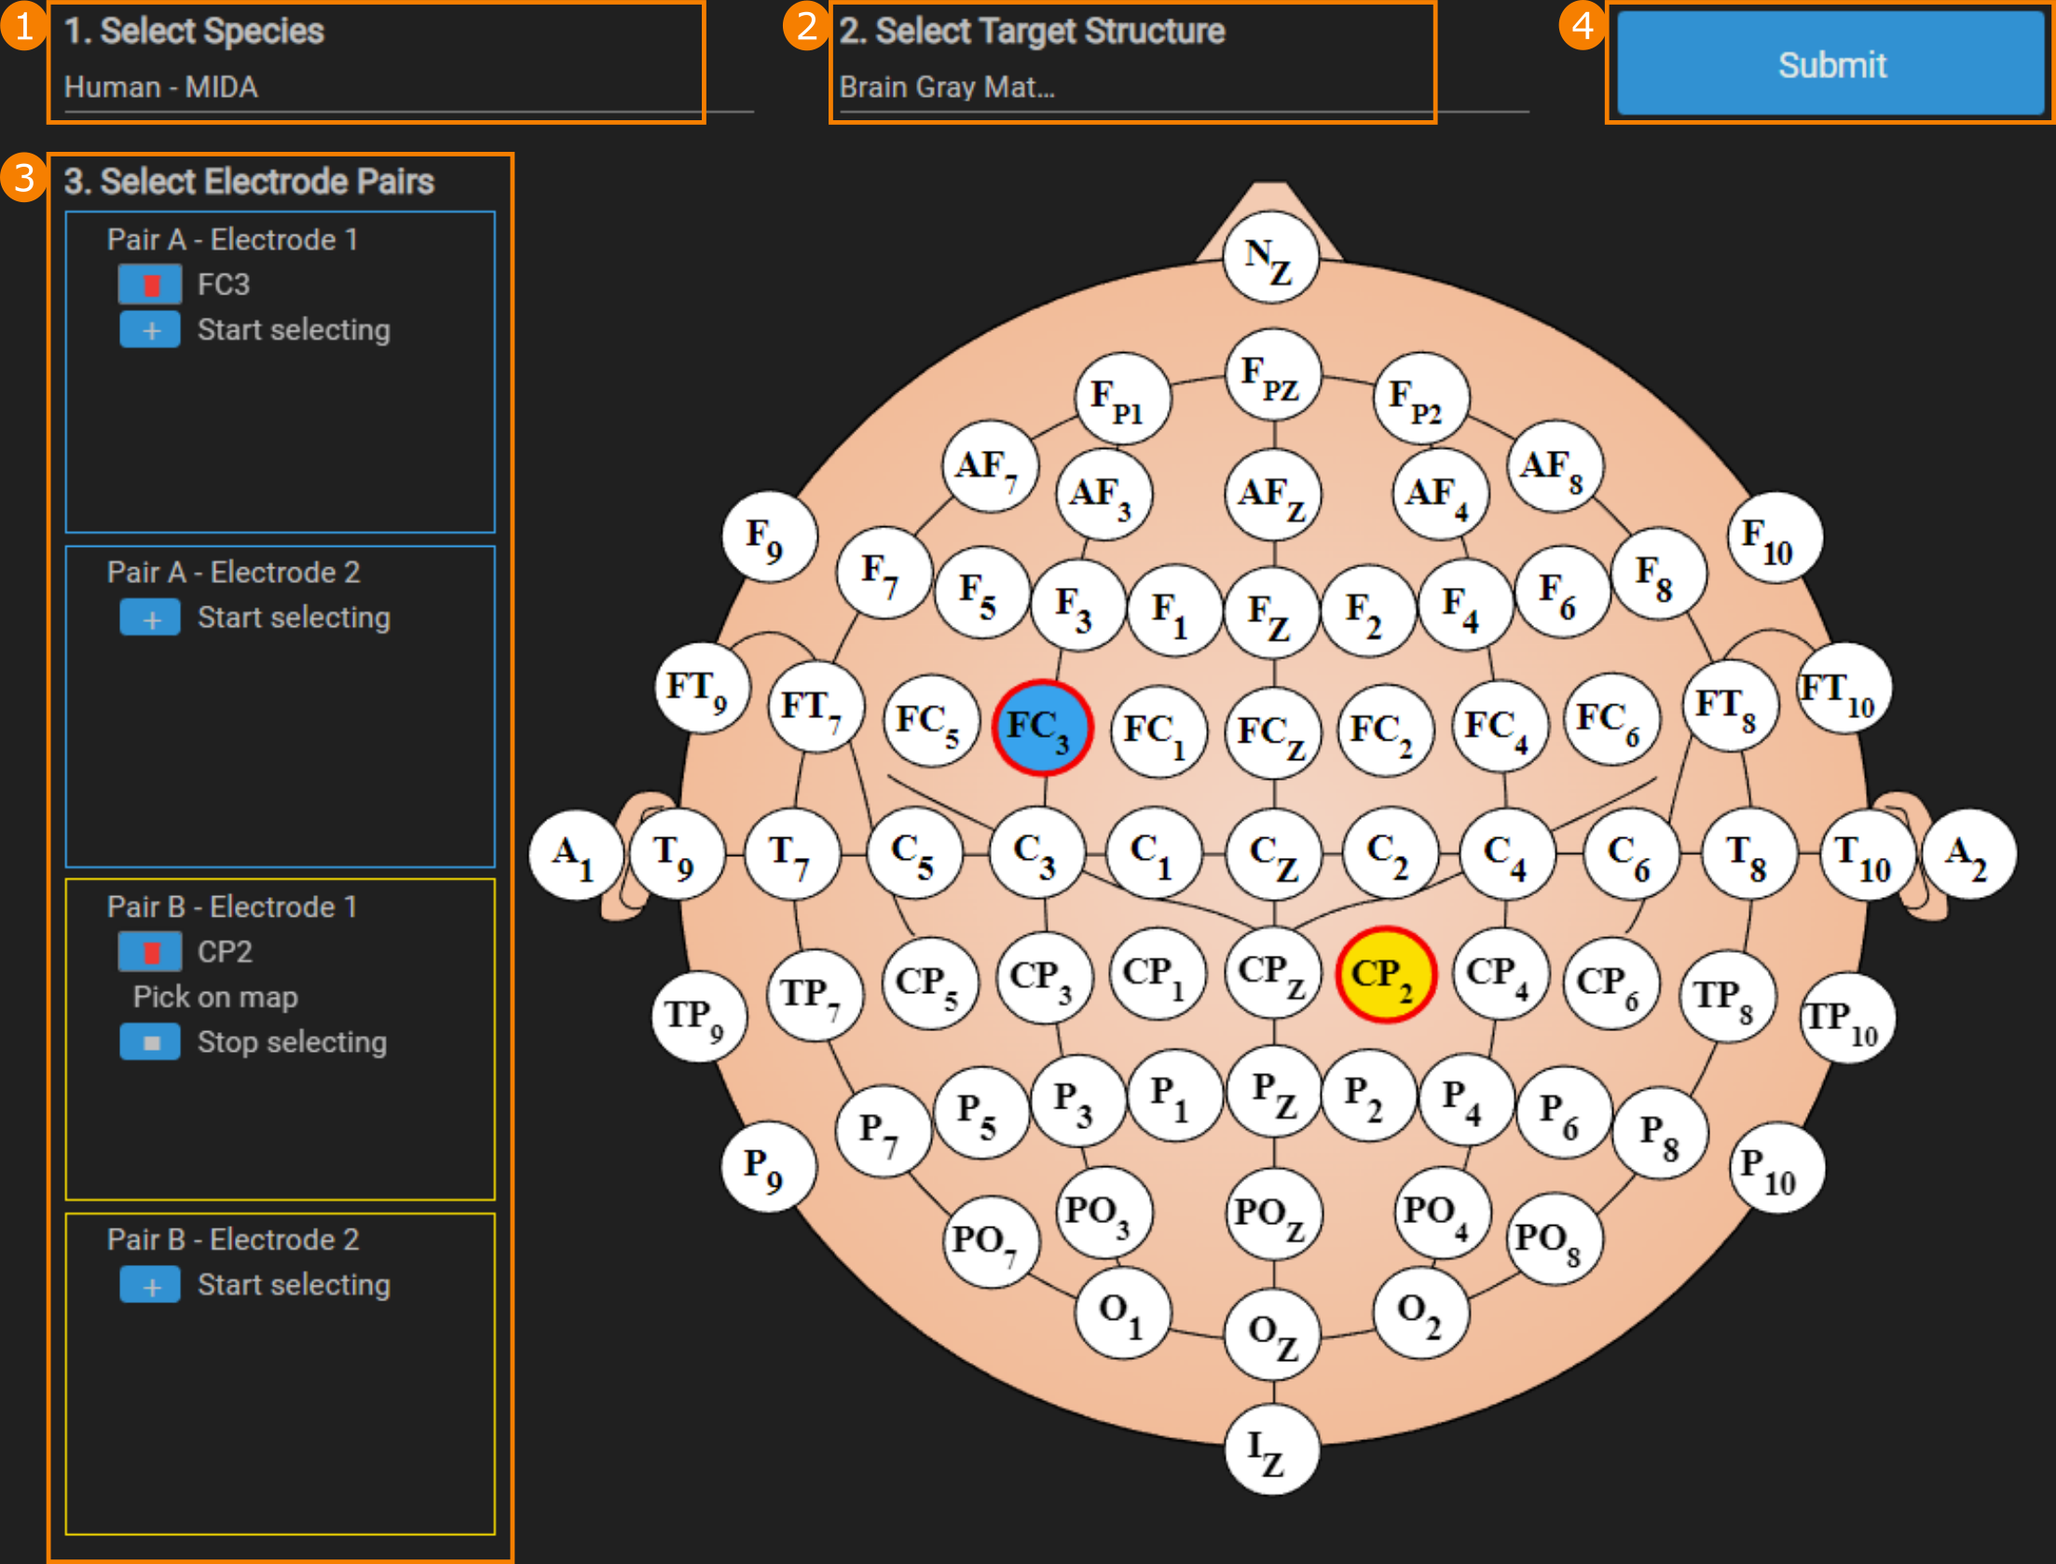
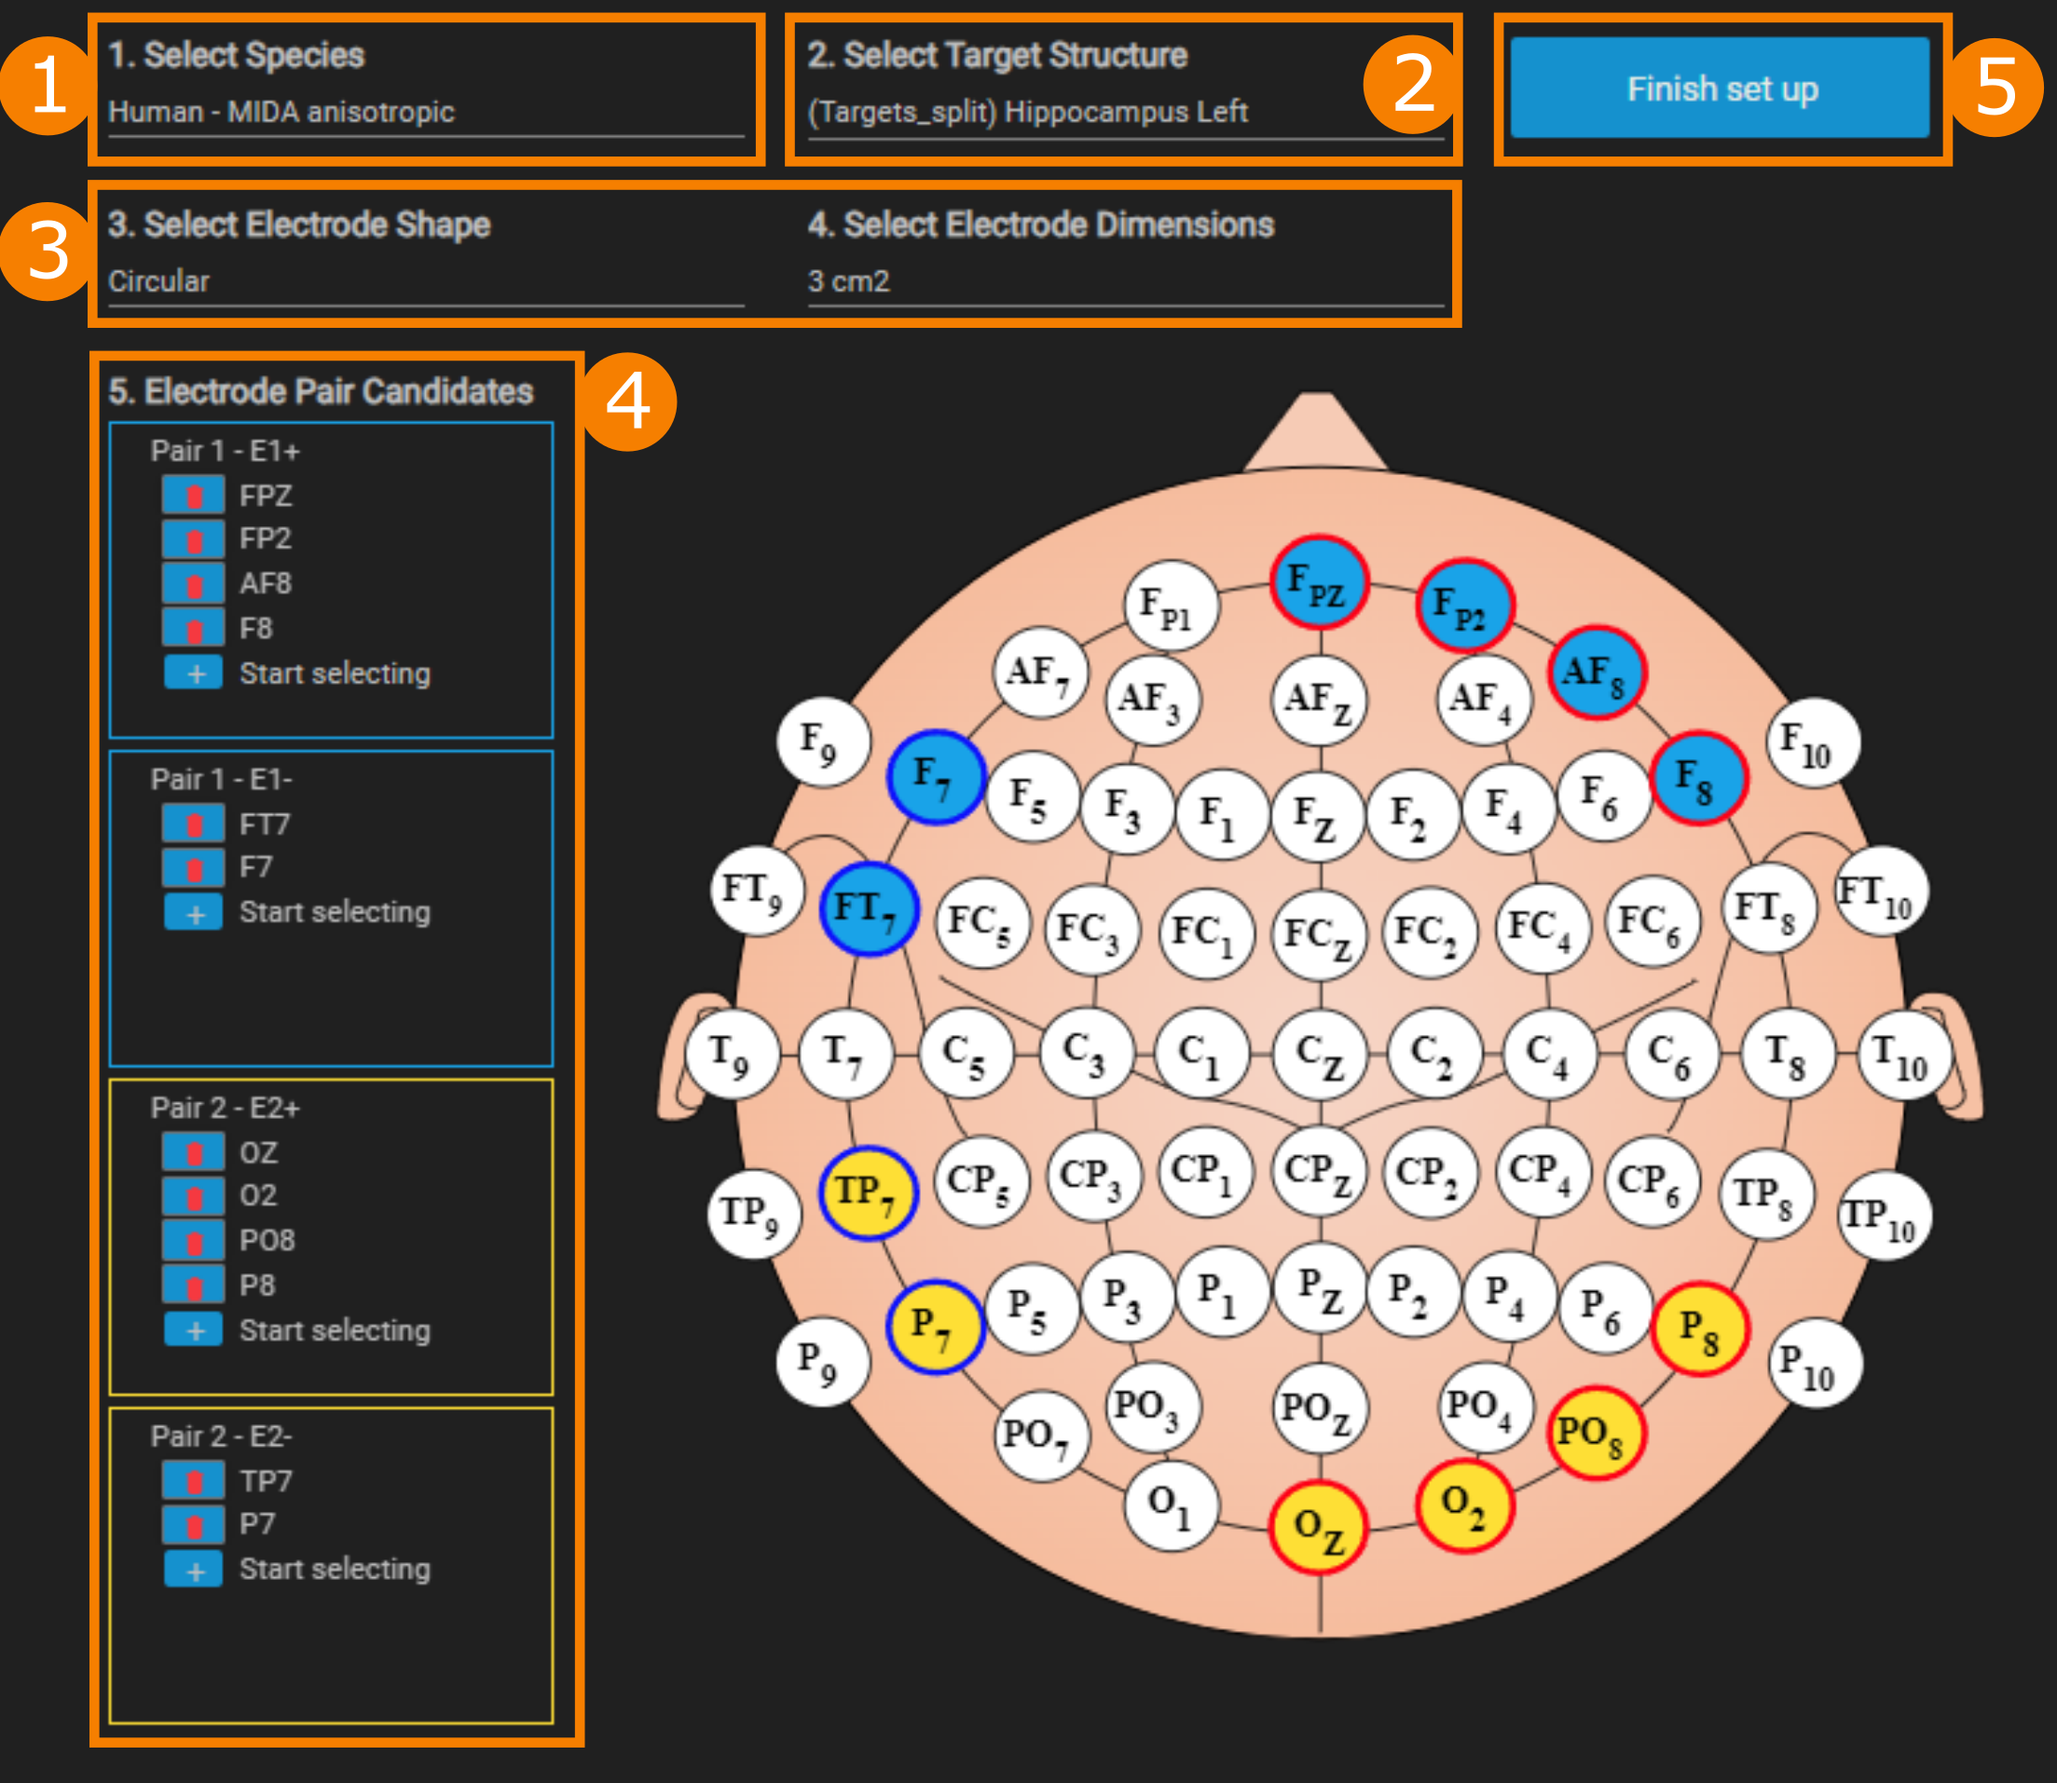
updated most of the dashboard sections.

diff --git a/docs/services/electrode_selector.md b/docs/services/electrode_selector.md
@@ -12,7 +12,7 @@ If you are using the personalized classic TI mode, the model selection will be e
 
 <br>
 <p align="center">
-  <img width="90%" src="assets/electrode_selector/setup.png">
+  <img width="90%" src="assets/electrode_selector/electrode_selector.png">
 </p>
 
 The **_Setup_** interface has the following elements:
@@ -25,19 +25,19 @@ The **_Setup_** interface has the following elements:
   <img width="90%" src="assets/electrode_selector/species.png">
 </p>
 
-2. **_Select Target Structure_** <br/>
+1. **_Select Target Structure_** <br/>
    The brain structure that should be targeted by TI is specified here via the drop-down list. All the exposure quality metrics will be calculated according to the selected structure. 
 
-3. **_Select Electrode Shape_** <br/>
-   The shape of the electrode is selected here via the drop-down list. Currently the circular shape is available only.
+2. **_Select Electrode Shape_and Dimension** <br/>
+   The shape of the electrode is selected here via the drop-down lists. Currently the circular shape with an area of 3cm<sup>2</sup> is available only.
 
-4. **_Select Electrode Dimensions_** <br/>
-   The dimension of the electrode is set here via the drop-down list. Currently the area of 3cm<sup>2</sup> is available only.
-
-5. **_Electrode Pair Candidates_** <br/>
+3. **_Electrode Pair Candidates_** <br/>
    Electrode position candidates are interactively selected here. Click ```+``` button next to _Start selecting_ under each _Pair_ and then click on the location in the diagram to add. The selected electrode pair locations will be highlighted with the same color (Blue for _Pair 1_ and Yellow for _Pair 2_). Click the icon next to candidate electrode under _Pair_ list to unselect it. E*n* + and E*n* - correspond to candidate locations for the two electrodes that make up the *n*-th pair. All permutations of the candidates locations are then evaluated as part of the optimization process.
 
-Once you are finished with the setup, you can press ```Finish set up```. This will relay all the required information to the **Optimizer** for the evaluation. If settings are changed after submitting, the ```Finish set up``` button turns orange to indicate that the optimization results are outdated. Settings can then be resubmitted and the **Optimizer** is executed once more to update the pipeline, and the button color reverts to the standard color.
+4. **Finish set up** <br/>
+   Once you are finished with the setup, you can press this button. This will relay all the required information to the next step for the evaluation.
+
+ If settings are changed after submitting, the ```Finish set up``` button turns orange to indicate that the optimization results are outdated. Settings can then be resubmitted and the **Optimizer** is executed once more to update the pipeline, and the button color reverts to the standard color.
 
 You can now click to the arrow on the right side of the browser to move to [**_Optimal Configuration Identification_**](/docs/services/post_processing.md).
 

diff --git a/docs/platform_introduction/dashboard.md b/docs/platform_introduction/dashboard.md
@@ -21,10 +21,10 @@ In addition, buttons on the top right provide access to notifications, various s
 - _**License**_: Information about the TI Planning Tool license, as well as the licenses of the underlying technologies.
 - _**Log out**_: Logging out from the **TI Planning Tool**
 
-The user access more functionality such as **_Plan management_**, **_information_**, **_sharing_**, and **_Service overview and update_** (3.) through the three-dot menu (1.) icon (see the [o<sup>2</sup>S<sup>2</sup>PARC User Manual](https://docs.osparc.io/#/) for information on these functionalities as well as the locking states). 
+The user access more functionality such as **_Overview_**, **Study Files**, **Sharing**, and **_Services Updates_** (3.) through the three-dot menu (1.) icon (see the [o<sup>2</sup>S<sup>2</sup>PARC User Manual](https://docs.osparc.io/#/) for information on these functionalities as well as the locking states). 
 If Services within a Plan need updating, the small circular arrow sign will appear in the bottom right corner (2.) of the Plan
 on the **Dashboard**. Clicking this icon will bring you directly to the update menu where you see the current and newest available
-versions of each Service and where you can update them either individually or all together.
+versions of each Service and where you can update them either individually or all together (4.).
 
 <p align="center">
   <img width="90%" src="assets/quickguide/settings_service.png">

diff --git a/docs/platform_introduction/data.md b/docs/platform_introduction/data.md
@@ -1,12 +1,12 @@
 ### Data
 
-The second tab available on the top of the **Dashboards** screen is the ```Data``` tab.
+The Data of a service can be accessed via the **Study Details** menu screen in the ```Study Files``` tab.
 
 <p align="center">
   <img width="90%"  src="assets/quickguide/data.png">
 </p>
 
 
-When changing to this section, you are presented with the file system of your account on o<sup>2</sup>S<sup>2</sup>PARC. You can navigate, delete, and download files, such as logs or the input/output data of Services. Two principal views are available: an icon and a list view - the latter provides additional information about the file size and the last modification date. Occasionally, it can be necessary to click the ```Reload``` button to refresh the file system tree.
+When changing to this section, you are presented with the file system of the selected Study (1.). By selecting a certain directory, the files within that folder will be displayed in the area to the right (2.). You can navigate, delete, and download files (3.), such as logs or the input/output data of Services. Two principal views are available: an icon and a list view - the latter provides additional information about the file size and the last modification date. Occasionally, it can be necessary to click the ```Reload``` button to refresh the file system tree.
 
 For more information, see the [o<sup>2</sup>S<sup>2</sup>PARC User Manual](https://docs.osparc.io/#/).

diff --git a/docs/plan/create_new_plan.md b/docs/plan/create_new_plan.md
@@ -3,10 +3,10 @@
 The setup of a new TI Plan can easily be initiated by clicking on the large ```New Plan``` icon on the ```Dashboard```.
 
 <p align="center">
-  <img width="90%" src="assets/quickguide/newplanv2.png">
+  <img width="90%" src="assets/quickguide/newplanv3.png">
 </p>
 
-Six different kinds of planning studies can be initialized, which correspond to the [three modes](/docs/background/modes.md): _classic TI_, _multi-channel TI_, and _phase-modulation TI, in both non-personalized and personalized form.
+Via the pop-up, six different kinds of planning studies can be initialized, which correspond to the [three modes](/docs/background/modes.md): _classic TI_, _multi-channel TI_, and _phase-modulation TI, in both non-personalized and personalized form.
 
 Allow for some time for the study initiation. Once the study is ready, you will have access to the different planning steps and their views (note: the amount of steps necessary depends on the selected plan.):
 
